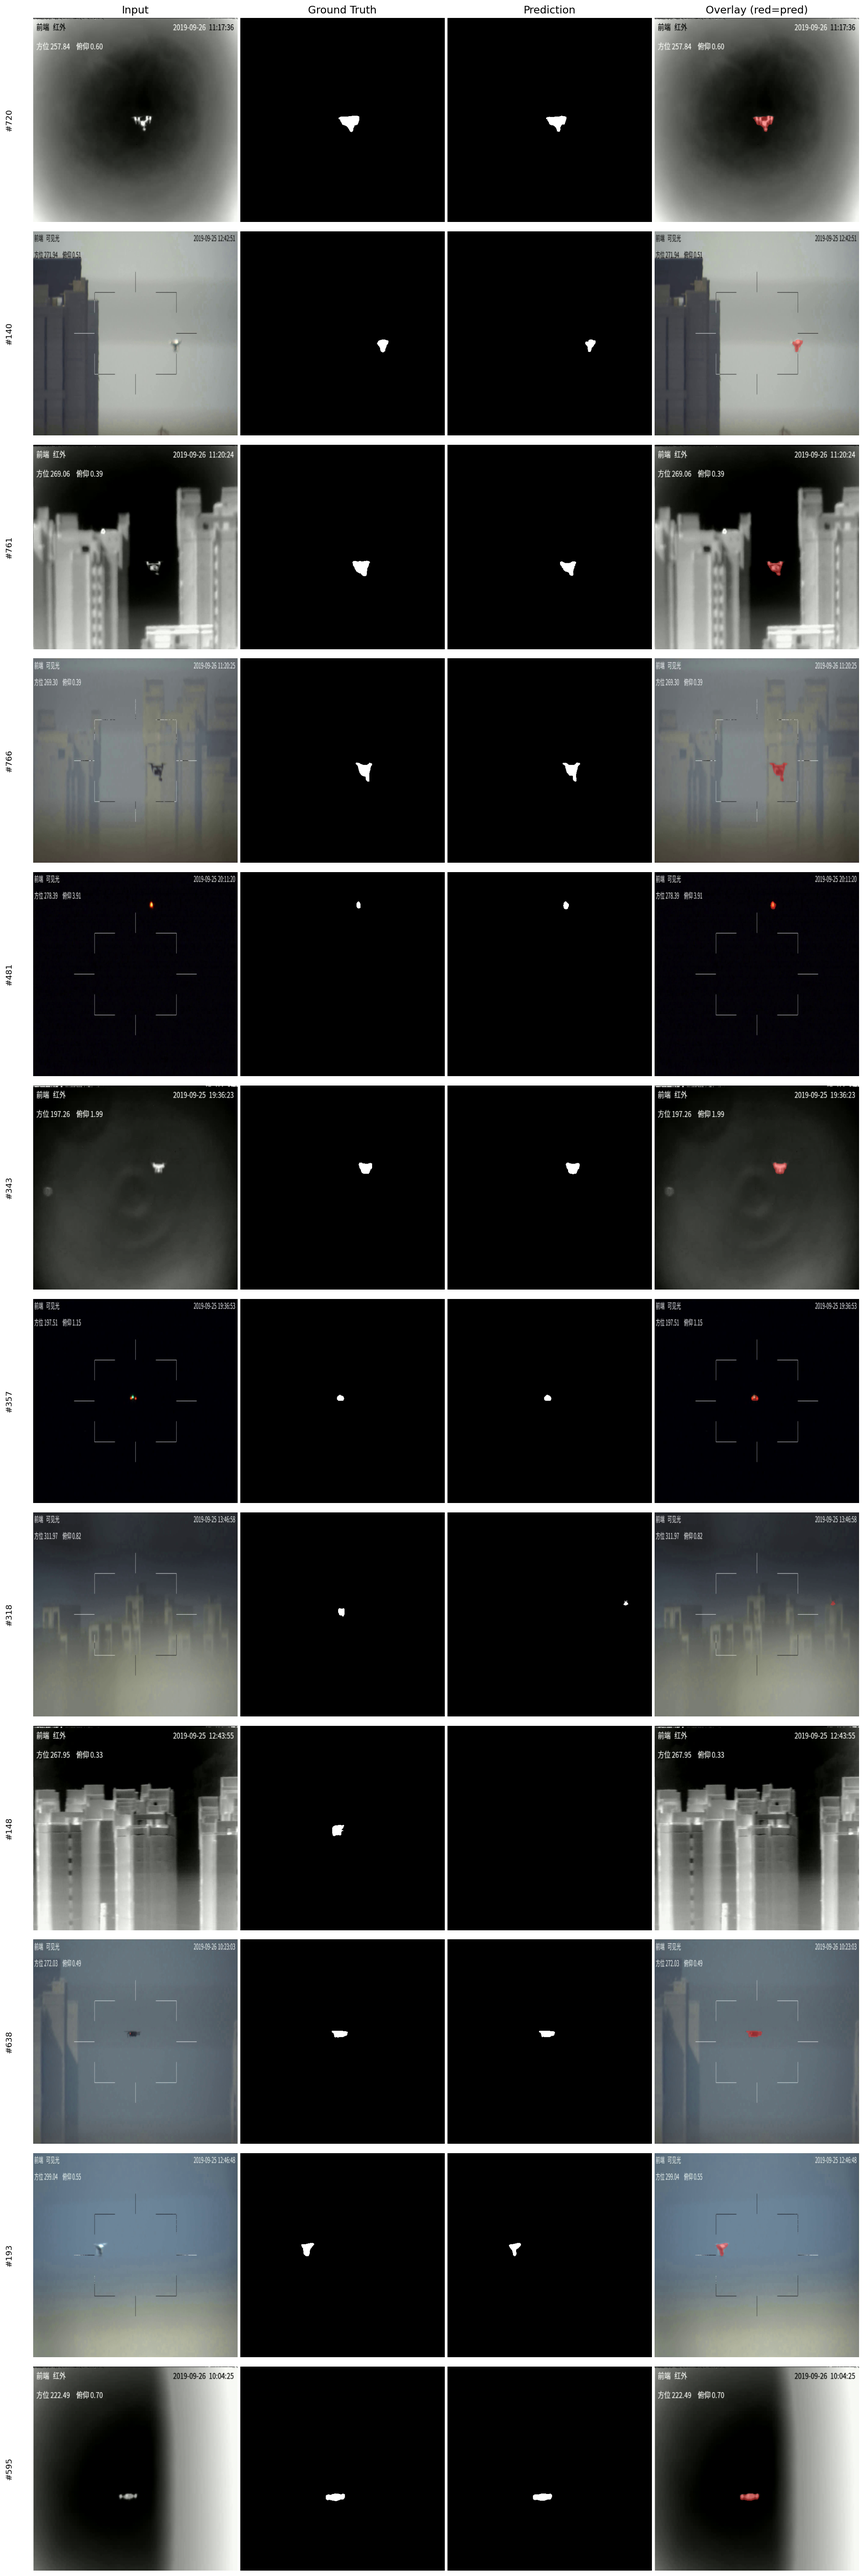
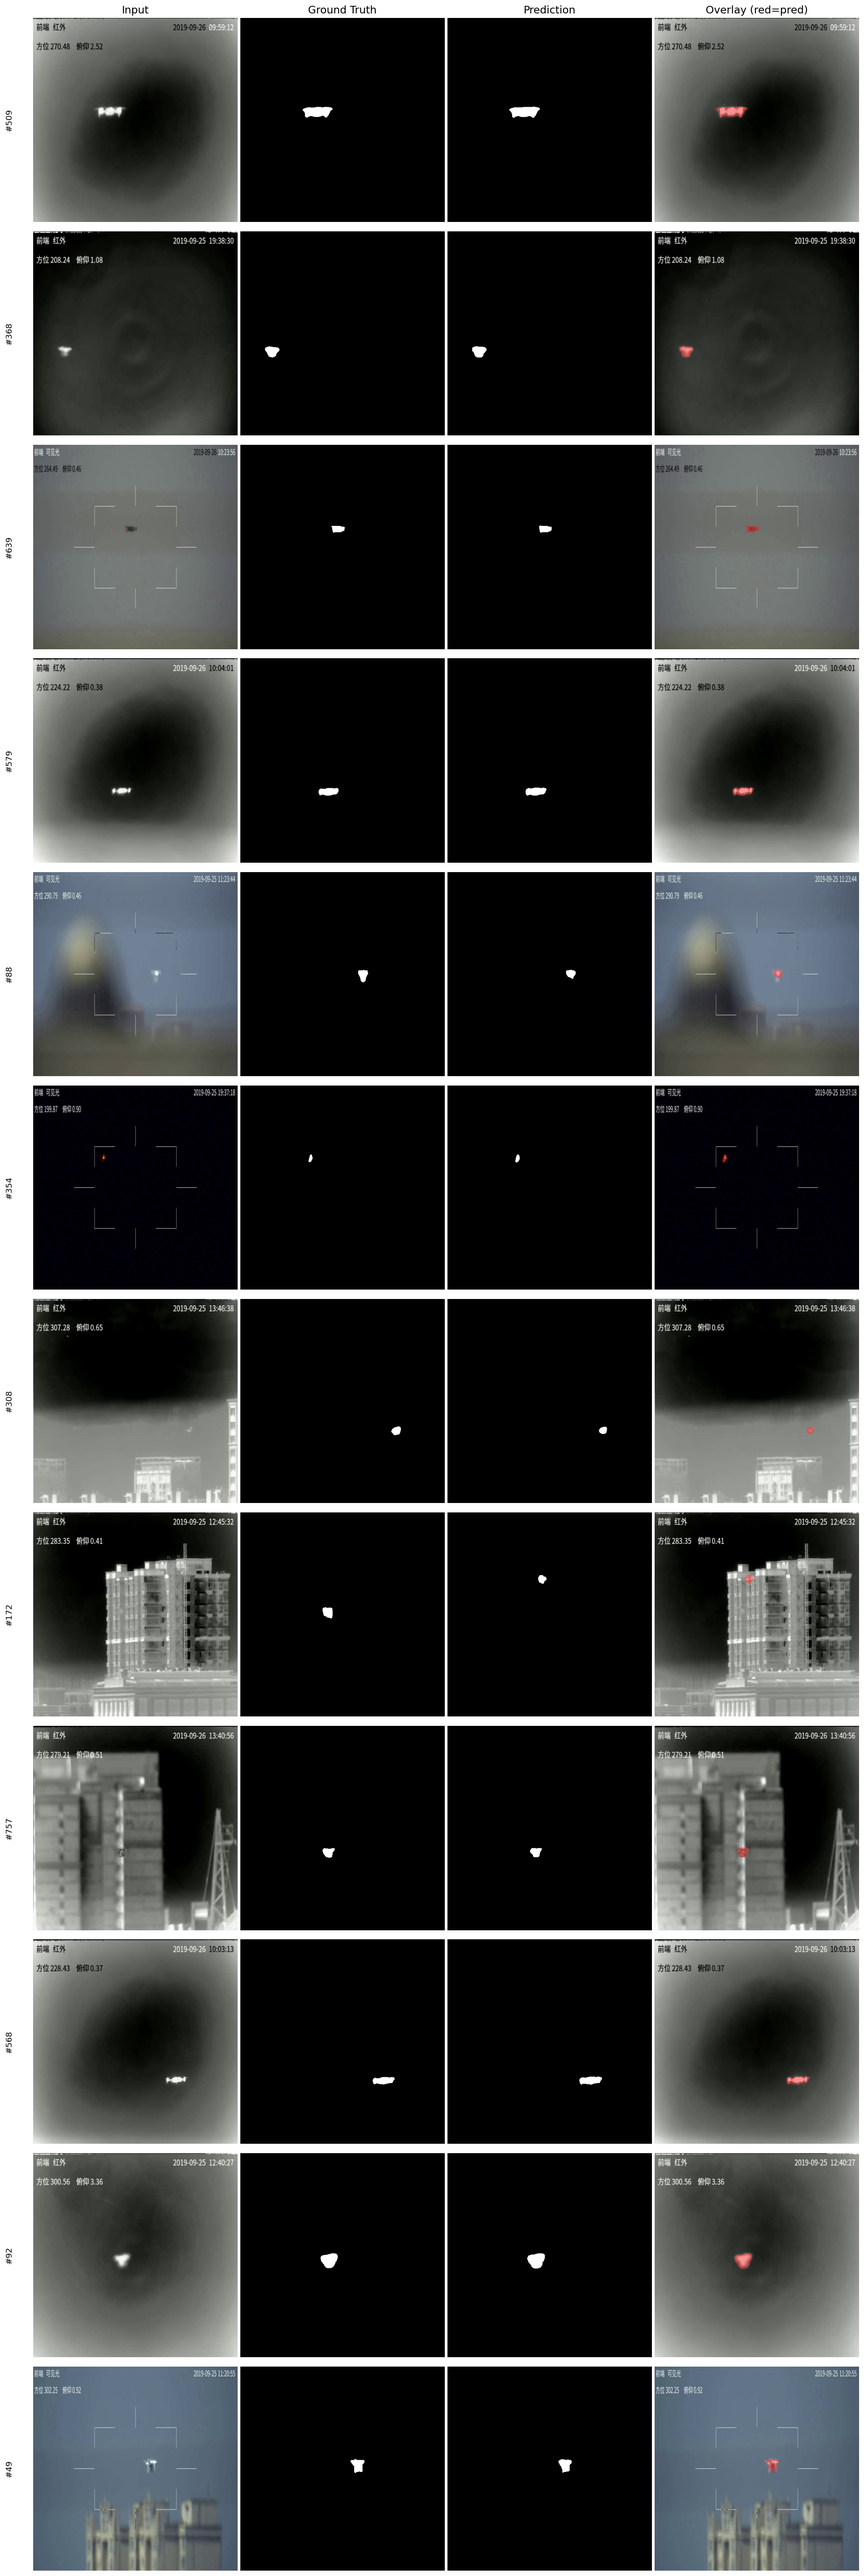
stride 10 v2 result upload

diff --git a/Anti_UAV_Localization/src/evaluate-paper.py b/Anti_UAV_Localization/src/evaluate-paper.py
@@ -1,0 +1,137 @@
+"""
+ThinDyUNet 평가 스크립트 (논문 공식 코드 완벽 모사 버전).
+주의: 논문 공식 코드의 특이점(버그 포함)을 그대로 재현한 스크립트입니다.
+"""
+
+import argparse
+import time
+from pathlib import Path
+
+import torch
+import torch.nn as nn
+from torch.utils.data import DataLoader
+import yaml
+from tqdm import tqdm
+
+import sys
+sys.path.insert(0, str(Path(__file__).resolve().parent))
+
+from dataset.uav_dataset import UAVSegmentationDataset
+from models.thin_dy_unet import ThinDyUNet
+
+# -----------------------------------------------------------------------------
+# 논문 공식 코드의 utils.common 에 있던 메트릭 계산식을 그대로 모사합니다.
+# (픽셀 전체가 아닌, 배치 내에서 단순 계산 후 나중에 평균을 내는 방식)
+# -----------------------------------------------------------------------------
+def pixel_accuracy(pred, mask):
+    correct = torch.eq(pred, mask).int()
+    return float(correct.sum()) / float(correct.numel())
+
+def seg_miou(pred, mask, smooth=1e-6):
+    intersection = (pred * mask).sum()
+    union = pred.sum() + mask.sum() - intersection
+    return float((intersection + smooth) / (union + smooth))
+
+def dice_coeff(pred, mask, smooth=1e-6):
+    intersection = (pred * mask).sum()
+    return float((2. * intersection + smooth) / (pred.sum() + mask.sum() + smooth))
+
+def load_config(config_path: str) -> dict:
+    with open(config_path, "r", encoding="utf-8") as f:
+        return yaml.safe_load(f)
+
+def main():
+    parser = argparse.ArgumentParser(description="Evaluate ThinDyUNet (Paper Version)")
+    parser.add_argument("--config", type=str, default="configs/train_config_full.yaml")
+    parser.add_argument("--checkpoint", type=str, default="checkpoints/full/best_model.pth")
+    parser.add_argument("--split", type=str, default="test", choices=["val", "test"])
+    args = parser.parse_args()
+
+    cfg = load_config(args.config)
+    project_root = Path(__file__).resolve().parent.parent
+    device = torch.device("cuda" if torch.cuda.is_available() else "cpu")
+    print(f"Device: {device}")
+
+    # Dataset & Loader
+    data_cfg = cfg["data"]
+    img_size = tuple(data_cfg["img_size"])
+    eval_stride = data_cfg.get(f"{args.split}_stride", 1)
+
+    dataset = UAVSegmentationDataset(
+        images_dir=str(project_root / data_cfg["images_root"] / args.split),
+        masks_dir=str(project_root / data_cfg["masks_root"] / args.split),
+        img_size=img_size,
+        stride=eval_stride,
+    )
+    
+    loader = DataLoader(
+        dataset,
+        batch_size=cfg["training"]["batch_size"],
+        shuffle=False,
+        num_workers=data_cfg["num_workers"],
+        pin_memory=True,
+    )
+    print(f"{args.split.capitalize()} samples: {len(dataset):,}")
+
+    # Model
+    model_cfg = cfg["model"]
+    model = ThinDyUNet(
+        in_channels=model_cfg["in_channels"],
+        n_classes=model_cfg["n_classes"],
+        base_ch=model_cfg["base_ch"],
+        n_kernels=model_cfg["n_kernels"],
+    ).to(device)
+
+    # Load checkpoint
+    ckpt_path = project_root / args.checkpoint
+    ckpt = torch.load(ckpt_path, map_location=device, weights_only=False)
+    model.load_state_dict(ckpt["model_state_dict"])
+    print(f"Test model: {ckpt_path}")
+    model.eval()
+
+    # =========================================================================
+    # 아래부터 논문 공식 코드(test.py) 완벽 모사 구간입니다.
+    # =========================================================================
+    total_acc = 0.0
+    total_miou = 0.0
+    total_dice = 0.0
+    total_infr_time = 0.0
+    total_batches = len(loader)
+
+    with torch.no_grad():
+        for images, true_masks in tqdm(loader, desc='Model Testing (Paper Mode)'):
+            # [재현 1] GPU 동기화(torch.cuda.synchronize) 누락 상태로 시간 측정 시작
+            start_time = time.time()
+            
+            images = images.to(device)
+            true_masks = true_masks.to(device)
+            outputs = model(images)
+
+            # [재현 2] Threshold 0.9 하드코딩 적용
+            pred_masks = outputs.sigmoid()
+            pred_masks = (pred_masks > 0.9).float()
+            
+            # [재현 3] 연산 완료 대기 없이 바로 시간 측정 종료
+            end_time = time.time()
+            total_infr_time += (end_time - start_time)
+
+            # [재현 4] 전체 픽셀이 아닌, 배치(Batch) 단위의 점수를 단순 누적
+            total_acc += pixel_accuracy(pred_masks, true_masks)
+            total_miou += seg_miou(pred_masks, true_masks)
+            total_dice += dice_coeff(pred_masks, true_masks)
+
+    # 단순 산술 평균 계산
+    avg_acc = total_acc / total_batches
+    avg_miou = total_miou / total_batches
+    avg_dice = total_dice / total_batches
+    avg_infr_time = total_infr_time / total_batches
+
+    print('\n============================================================')
+    print('  TEST METRICS (PAPER ORIGINAL METHOD) ')
+    print('============================================================')
+    # [재현 5] 추론 시간 밀리초 변환 버그 (* 100) 그대로 적용
+    print(f"Pixel Accuracy: {avg_acc:.4f} | Mean IoU: {avg_miou:.4f} | Dice Coeff: {avg_dice:.4f} | Inference Time: {avg_infr_time*100:.2f} ms")
+    print('============================================================')
+
+if __name__ == "__main__":
+    main()

diff --git a/test_ds.py b/test_ds.py
@@ -1,0 +1,15 @@
+import sys
+sys.path.insert(0, 'Anti_UAV_Localization/src')
+
+from dataset.uav_dataset import UAVSegmentationDataset
+
+ds = UAVSegmentationDataset(
+    images_dir='Anti_UAV_Localization/data/raw/images/val',
+    masks_dir='Anti_UAV_Localization/data/raw/masks/val',
+    img_size=(512, 512),
+    stride=20,
+)
+
+print(f'Val samples (stride=20): {len(ds)}')
+img, mask = ds[0]
+print(f'Image: {img.shape}, mask: {mask.shape}, mask sum: {mask.sum().item():.0f}')
